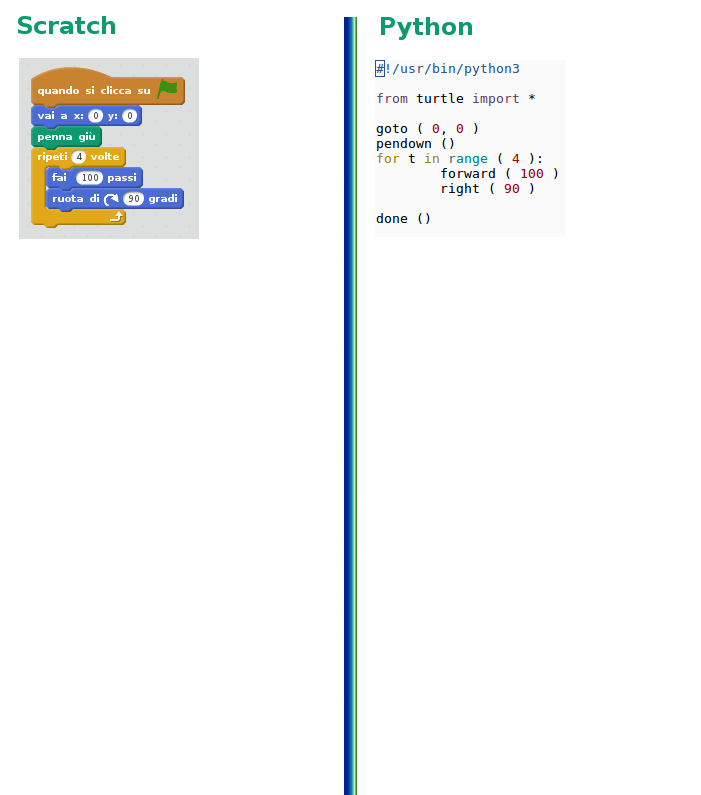
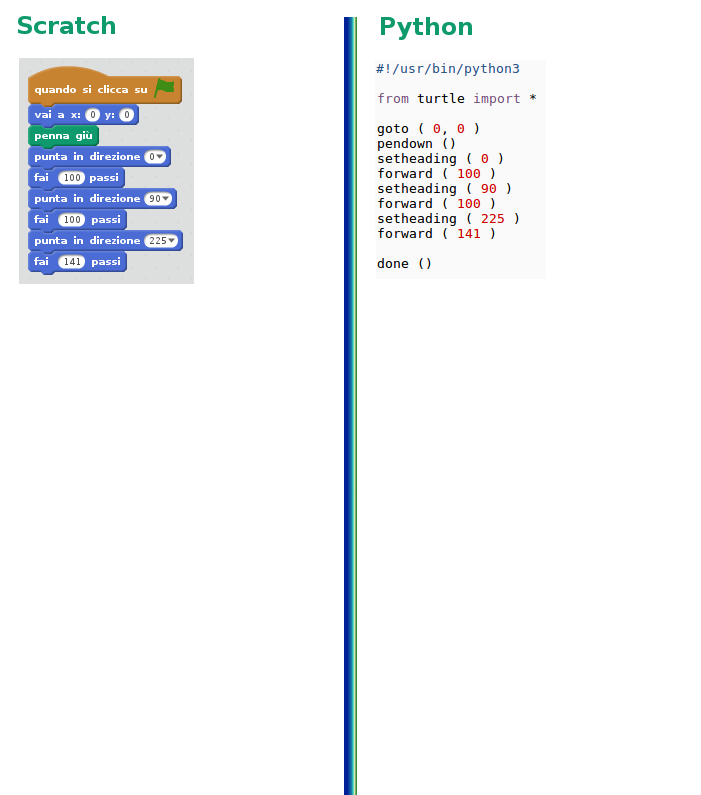
...

Changed region(s): [[0.03, 0.0604, 0.2996, 0.3623], [0.5392, 0.1208, 0.7789, 0.3623]]

diff --git a/turtle/tartaruga.py b/turtle/tartaruga.py
@@ -2,11 +2,53 @@
 
 from turtle import *
 
+mode ( "logo" )
+colormode ( 255 )
+
 goto ( 0, 0 )
 pendown ()
-for t in range ( 4 ):
-	forward ( 100 )
-	right ( 90 )
+colore = 0
+
+for quadrato in range ( 10 ):
+	pencolor ( colore * 2, colore * 10, colore * 10 )
+
+	for lato in range ( 4 ):
+		forward ( 100 )
+		right ( 90 )
+
+	right ( 36 )
+	colore = colore + 2
 
 done ()
+
+
+
+
+
+
+
+
+
+
+def quadrato ():
+	goto ( 0, 0 )
+	pendown ()
+	for t in range ( 4 ):
+		forward ( 100 )
+		right ( 90 )
+
+	done ()
+
+
+def triangolo ():
+	goto ( 0, 0 )
+	pendown ()
+	setheading ( 0 )
+	forward ( 100 )
+	setheading ( 90 )
+	forward ( 100 )
+	setheading ( 225 )
+	forward ( 141 )
+
+	done ()
 
